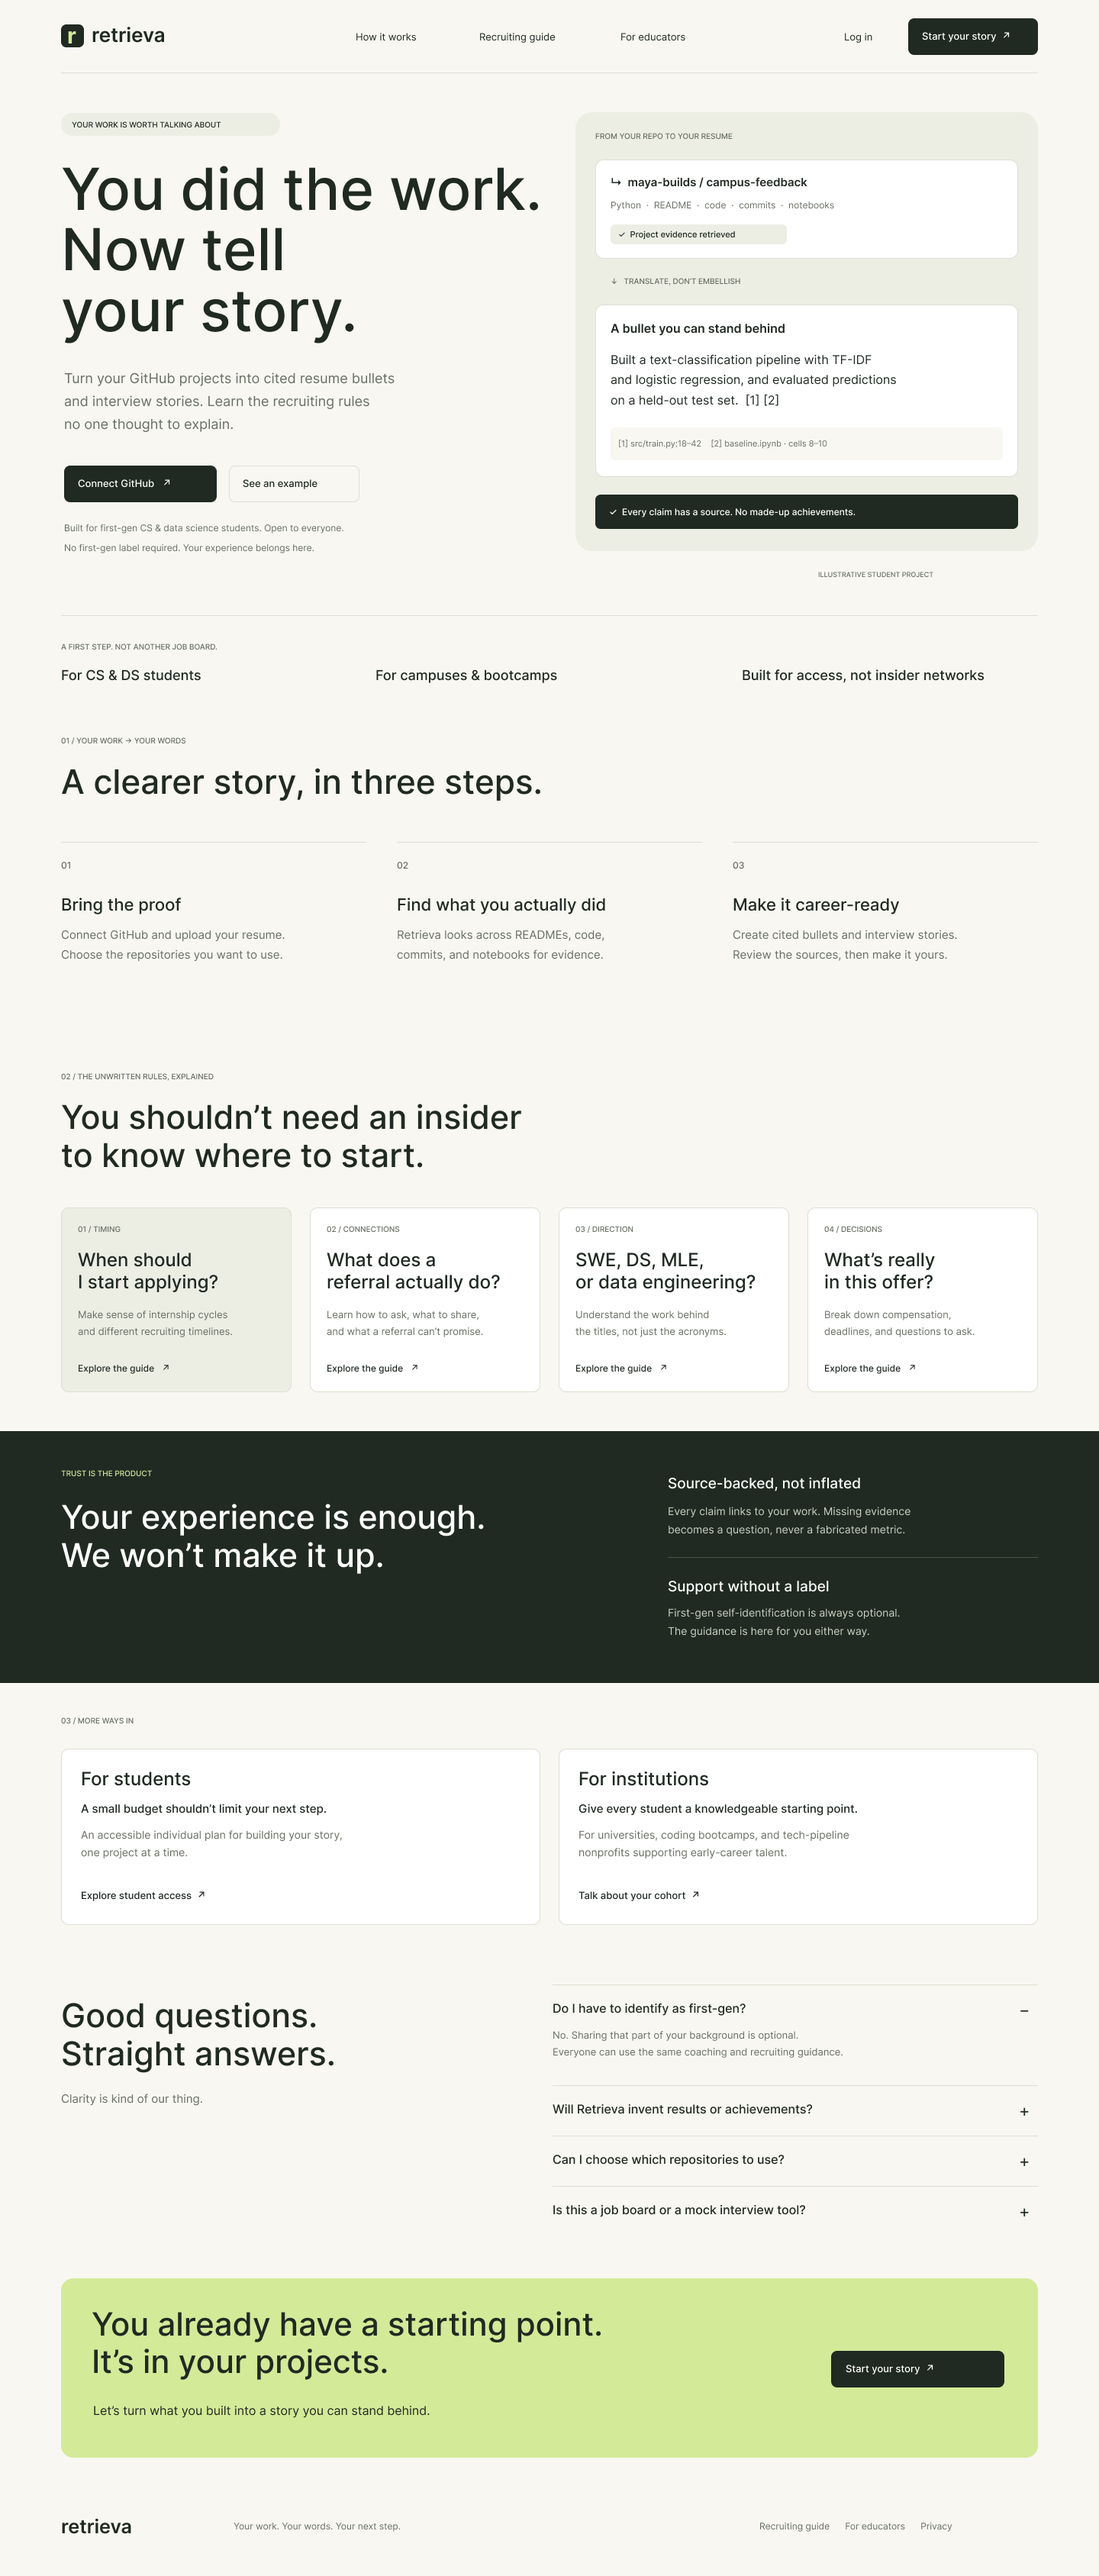
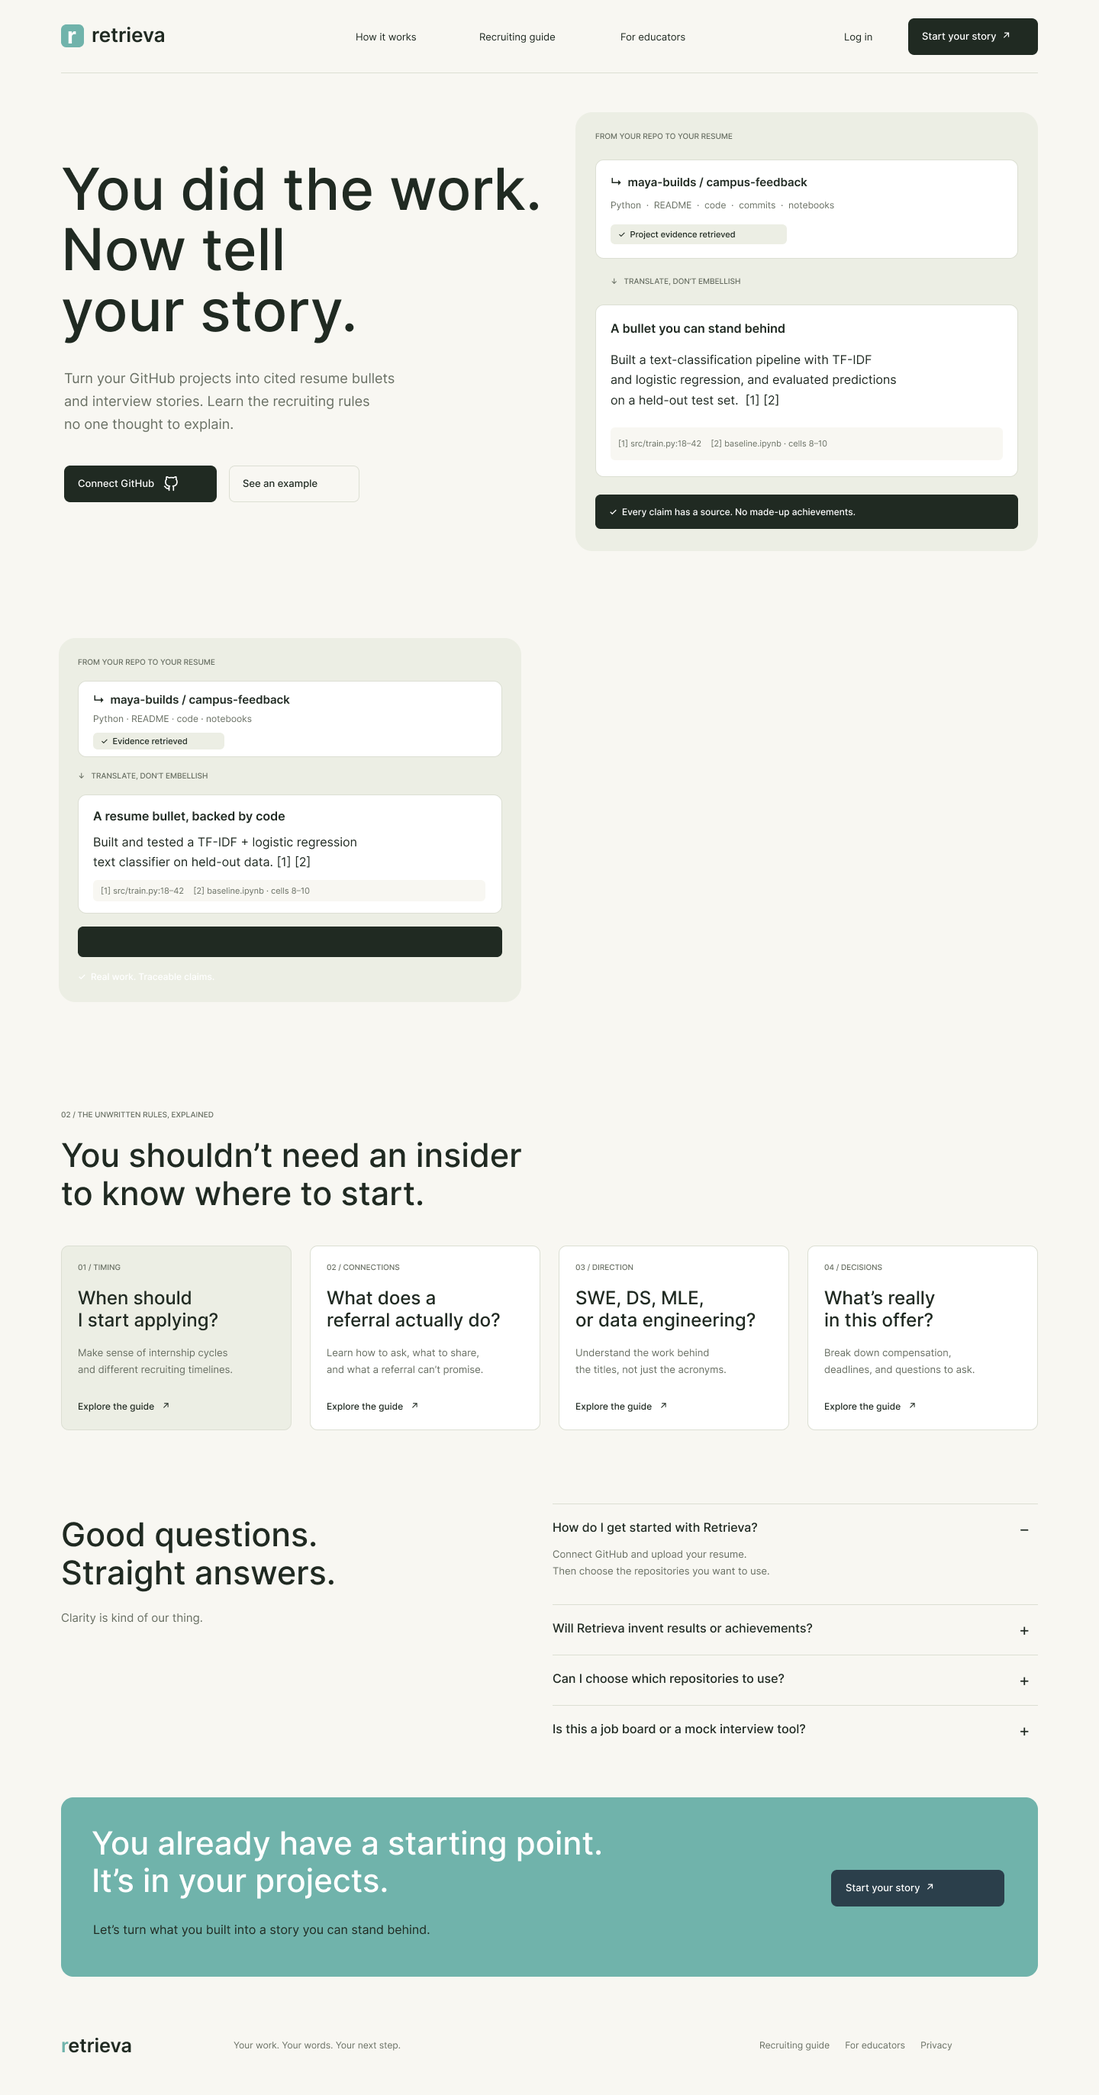
feat: added openai integration

diff --git a/backend/src/services/document_processing.py b/backend/src/services/document_processing.py
@@ -1,6 +1,6 @@
 from pathlib import Path
-
-import ollama
+import os
+from openai import OpenAI
 from pypdf import PdfReader
 from sqlalchemy import delete, select, func
 from sqlalchemy.orm import Session
@@ -9,10 +9,13 @@ from sqlalchemy.orm import Session
 from models.document_chunk import DocumentChunk
 from models.stored_file import StoredFile
 
-LLM_MODEL = "llama3.2"            # ollama pull llama3.2
-EMBED_MODEL = "nomic-embed-text"  # ollama pull nomic-embed-text
+LLM_MODEL = os.getenv("OPENAI_CHAT_MODEL")
+EMBED_MODEL = os.getenv("OPENAI_EMBED_MODEL")
+EMBED_DIMENSIONS = 1536
 CHUNK_SIZE, OVERLAP, TOP_K = 800, 150, 4
 UPLOAD_DIR = Path("uploads")
+
+client = OpenAI(api_key=os.getenv("OPENAI_API_KEY"))
 
 SYSTEM_PROMPT = (
     "Answer the question using ONLY the context below. "
@@ -39,7 +42,14 @@ def chunk(text: str, size: int = CHUNK_SIZE, overlap: int = OVERLAP) -> list[str
 
 
 def embed(texts: list[str]) -> list[list[float]]:
-    return ollama.embed(model=EMBED_MODEL, input=texts).embeddings
+    response = client.embeddings.create(
+        model=EMBED_MODEL,
+        input=texts,
+        dimensions=EMBED_DIMENSIONS,
+    )
+
+    ordered_embeddings = sorted(response.data, key=lambda x: x.index)
+    return [embedding.embedding for embedding in ordered_embeddings]
 
 
 def index_files(db: Session, paths: list[str] | None) -> str:
@@ -121,8 +131,8 @@ def answer(db: Session, message: str, history: list):
 
     text = ""
 
-    for part in ollama.chat(model=LLM_MODEL, messages=messages ,stream=True):
-        text += part["message"]["content"]
+    for part in client.chat.completions.create(model=LLM_MODEL, messages=messages ,stream=True):
+        text += part.choices[0].delta.content or ""
         yield text
     
     sources = "\n".join(

diff --git a/backend/src/api/v1/user.py b/backend/src/api/v1/user.py
@@ -4,9 +4,10 @@ from sqlalchemy import select
 from sqlalchemy.exc import IntegrityError
 from sqlalchemy.orm import Session
 
+
 from database import get_db
 from models.user import User
-from schemas.user import UserCreate, UserRead
+from schemas.user import UserCreate, UserRead, UserLogin
 
 user_router = APIRouter(prefix="/user", tags=["user"])
 password_hash = PasswordHash.recommended()
@@ -44,5 +45,21 @@ def get_user(user_id, db: Session = Depends(get_db)) -> User:
         raise HTTPException(
             status_code=status.HTTP_404_NOT_FOUND,
             detail="Unable to find user by id"
+        )
+    return user
+
+
+@user_router.post("/login", response_model=UserRead)
+def login_user(user: UserLogin, db: Session = Depends(get_db)) -> User:
+    user = db.scalar(select(User).where(User.username == user.username))
+    if user is None:
+        raise HTTPException(
+            status_code=status.HTTP_401_UNAUTHORIZED,
+            detail="Invalid username or password"
+        )
+    if not password_hash.verify(user.hashed_password, user.password):
+        raise HTTPException(
+            status_code=status.HTTP_401_UNAUTHORIZED,
+            detail="Invalid username or password"
         )
     return user

diff --git a/backend/src/models/document_chunk.py b/backend/src/models/document_chunk.py
@@ -15,4 +15,4 @@ class DocumentChunk(Base):
     )
     chunk_index: Mapped[int] = mapped_column(Integer, nullable=False)
     content: Mapped[str] = mapped_column(Text, nullable=False)
-    embedding: Mapped[list[float]] = mapped_column(Vector(768), nullable=False)
+    embedding: Mapped[list[float]] = mapped_column(Vector(1536), nullable=False)
